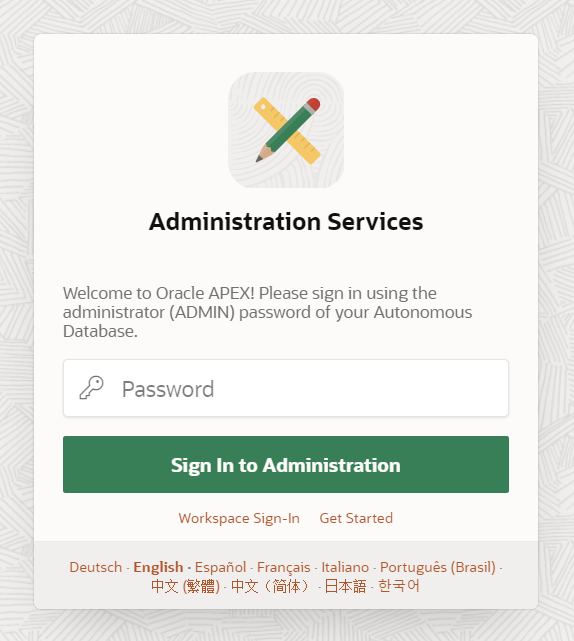
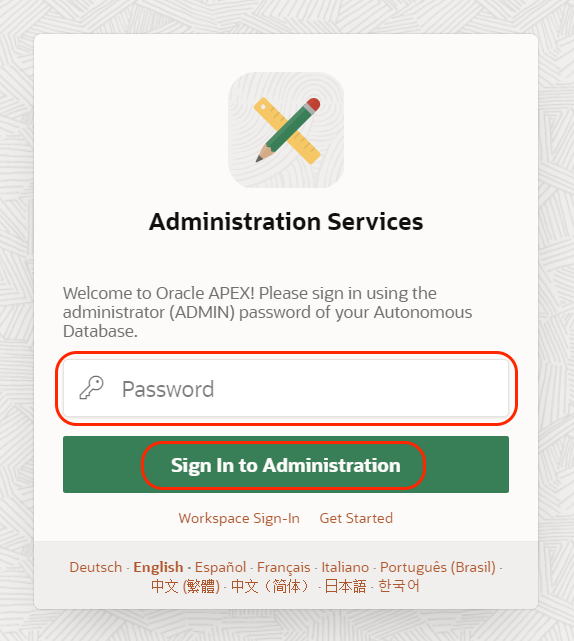
Fix red marks on Lab 2

diff --git a/lab2/README.md b/lab2/README.md
@@ -43,11 +43,9 @@ Select **Create Workspace**.
 
 You will be returned to the Oracle APEX administration page, and a message will be displayed "**Workspace Created**".
 
-![ORDS](../images/apex_workspace5.png)
-
 Sign in as the **ATP_ODA** user by selecting the icon on the centre of the screen where you can see the name of the user, **ATP_ODA**.
 
-![ORDS](../images/apex_workspace6.png)
+![ORDS](../images/apex_workspace5.png)
 
 Add the **name of the worspace**, **user name** and **password**: **ATP_ODA** and click **Sing in**.
 
